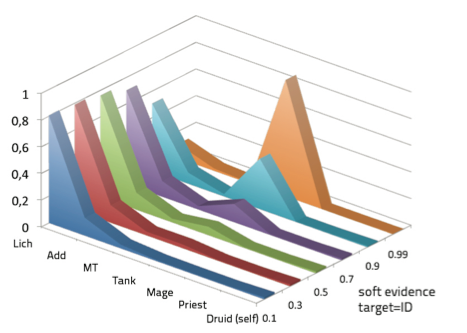
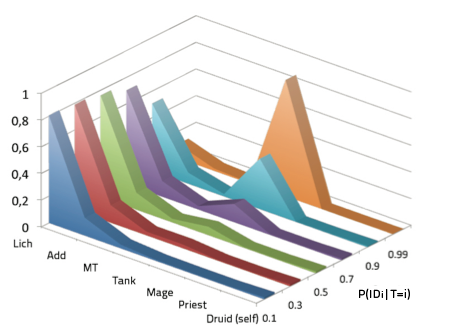
chapter 3 RC0

Changed region(s): [[0.7495, 0.8408, 0.9293, 0.961]]

diff --git a/chapters/theory.tex b/chapters/theory.tex
@@ -250,32 +250,32 @@ which we will change to watch their effects.
 %``soft evidence that a selected target is foe'' and the ``soft evidence that a selected target will soon die ($ID=true$)'' that will consequently modify the probability tables of $P(A_i)$ and $P(ID_i)$ respectively. 
 %probability that a selected target is a foe $\PP(A_i|T=i)$ and the probability that a selected target will soon die will $\PP(ID_i=``soon''|T=i)$
 In the experiments, we will try different values for the ``soft evidence that a selected target will soon die'', that is $\PP(ID_i | T=i)$, and see how the behavior of the agent changes. 
-We set the probability to target the same target as before to 0.4 and the previous target to ``Lich'' so that the prior probability for all other 6 targets is 0.1 (4 times more chances to target the Lich than any other character). 
-We set the probability to target an enemy (instead of an ally) $P(A_i=false|T=i)$ to 0.6. This means that our robotic druid is mainly a damage dealer and just a backup healer. For the ``target selection'' model, we can see on Fig.~\ref{fig:wow_target} (left) that the evolution from selecting the main foe ``Lich'' to selecting the ally ``Tank'' is driven by the increase of 
-``soft evidence that a selected target will soon die'' and our robot eventually moves on targeting his(its) ``Tank'' ally (to heal him). We can see on Fig.~\ref{fig:wow_target} (right) that, at some point, the robotic Druid prefers to kill the dying ``add'' (additional foe) to save his ally Tank instead of healing him. Note that there is no variable showing the relation between ``Add'' and ``Tank'' (the first is attacking the second, who is taking damages from the first), but this could be taken into account in a more complete model.
+We set the probability to target the same target as before ($P(T^t=i|T^{t-1}=i)$) to 0.4 and the previous target to ``Lich'' so that the prior probability for all other 6 targets is 0.1 (4 times more chances to target the Lich than any other character). 
+We set the probability to target an enemy (instead of an ally) $P(A_i=false|T=i)$ to 0.6. This means that our robotic druid is mainly a damage dealer and just a backup healer. For the ``target selection'' sub-model, we can see on Fig.~\ref{fig:wow_target} (left) that the evolution from selecting the main foe ``Lich'' to selecting the ally ``Tank'' is driven by the increase of 
+``soft evidence that a selected target will soon die'' and our robot eventually moves on targeting their ``Tank'' ally (to heal them). We can see on Fig.~\ref{fig:wow_target} (right) that, at some point, the robotic Druid prefers to kill the dying ``add'' (additional foe) to save their ally Tank instead of healing them. Note that there is no variable showing the relation between ``Add'' and ``Tank'' (the first is attacking the second, who is taking damages from the first), but this could be taken into account in a more complete model.
 
 \begin{figure}[h!]
 \begin{center}
 \includegraphics[width=7.8cm]{images/wow_distrib_target1.png} \includegraphics[width=7.8cm]{images/wow_distrib_target2.png}
-\caption{Left: probabilities of targets depending on the soft evidence that a target is dying with setup A. Right: same, with setup B. TODO }
+\caption{Left: probabilities of targets depending on the soft evidence that a target is dying ($\PP(ID_i=true | T=i)$) with setup A. Right: same, with setup B.}
 \label{fig:wow_target}
 \end{center}
 \end{figure}
 
-For the ``skill selection'' model, we can see on Fig.~\ref{fig:wow_skill} the influence of $ID_i$ on Skill which is coherent with the Target distribution: either, in setup A (left), we evolve with the increase of $P(ID_i=true|Target=i)$ to choose to heal our ally or, in setup B (right), to deal direct damage (and hopefully, kill) the foe attacking him. As you can see here, when we have the highest probability to attack the main enemy (``Lich'', when $P(ID_i=true|Target=i)$ is low), who is a $C=tank$, we get a high probability for the Skill $debuff\_armor$. We only cast this skill if the debuff is not already present, so perhaps that we will cast $small\_dd$ instead. To conclude this example, Fig.~\ref{fig:wow_target_skill} shows the distribution on $P(T,S|all\_status\_variables)$ with setup A and the probability to target the previous target (set to ``Lich'' here) only $\approx 2$ times greater than any other character (so that we focus less on the same character), soft evidences $P(ID_i=true|Target=i)=0.9$ and $P(A_i=false|Target=i)=0.6$. In a greedy way, if the first couple $(T,S)$ is already done or not available, we take the second.
+For the ``skill selection'' model, we can see on Fig.~\ref{fig:wow_skill} the influence of $ID_i$ on Skill which is coherent with the Target distribution: either, in setup A (left), we evolve with the increase of $P(ID_i=true|Target=i)$ to choose to heal our ally or, in setup B (right), to deal direct damage (and hopefully, kill) the foe attacking him. As you can see here, when we have the highest probability to attack the main enemy (``Lich'', when $P(ID_i=true|Target=i)$ is low), who is a $C=tank$, we get a high probability for the Skill \textit{debuff\_armor}. We only cast this skill if the debuff is not already present, so perhaps that we will cast \textit{small\_dd} instead. To conclude this example, Fig.~\ref{fig:wow_target_skill} shows the distribution on $P(T,S|all\_status\_variables)$ with setup A and the probability to target the previous target (set to ``Lich'' here) only $\approx 2$ times greater than any other character (so that we focus less on the same character), soft evidences $P(ID_i=true|Target=i)=0.9$ and $P(A_i=false|Target=i)=0.6$. In a greedy way, if the first couple $(T,S)$ is already done or not available, we take the second.
 
 \begin{figure}[h!]
 \begin{center}
-\includegraphics[width=7cm]{images/wow_distrib_skill1.png} \includegraphics[width=7cm]{images/wow_distrib_skill2.png}
-\caption{Left: Probabilities of skills depending on the soft evidence that a target is dying with setup A. Right: same, with setup B. TODO }
+\includegraphics[width=7.8cm]{images/wow_distrib_skill1.png} \includegraphics[width=7.8cm]{images/wow_distrib_skill2.png}
+\caption{Left: Probabilities of skills depending on the soft evidence that a target is dying ($\PP(ID_i=true|T=i)$) with setup A. Right: same, with setup B.}
 \label{fig:wow_skill}
 \end{center}
 \end{figure}
 
 \begin{figure}[h!]
 \begin{center}
-\includegraphics[width=11cm]{images/wow_distrib_target_skill.png}
-\caption{Log-probabilities of Target and Skill with setup A, and $P(ID|Target)=0.9, P(A|Target)=0.6$ TODO}
+\includegraphics[width=12cm]{images/wow_distrib_target_skill.png}
+\caption{Log-probabilities of Target and Skill with setup A, and $P(ID_i=true|T=i)=0.9, P(A_i=true|T=i)=0.6$. We can see that if the role of our character is more of a healer, it is most probable that it will heal an ally, even when they are not endangered (setup A).}
 \label{fig:wow_target_skill}
 \end{center}
 \end{figure}
